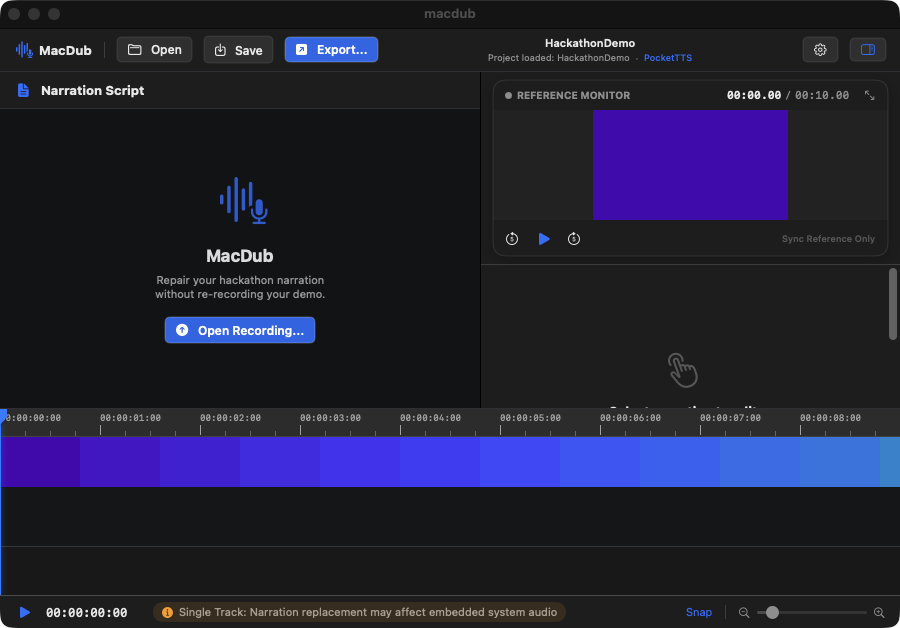
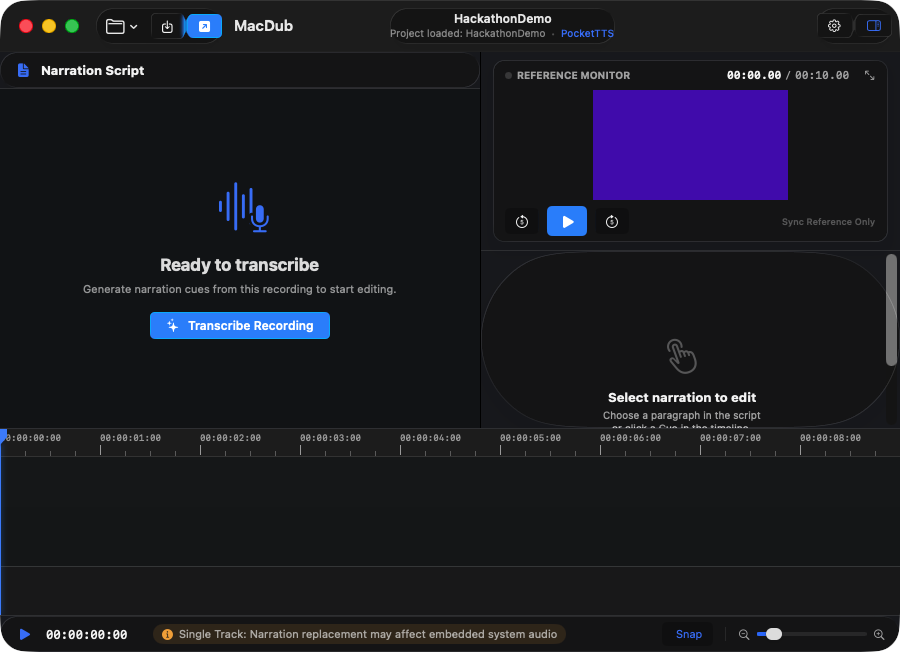
refactor(tests): modernize AVAssetImageGenerator to async image(at:) and update live Reference Monitor screenshot

diff --git a/Tests/MacDubCoreTests/Suites/RealWorldAcceptanceTests.swift b/Tests/MacDubCoreTests/Suites/RealWorldAcceptanceTests.swift
@@ -45,7 +45,7 @@ struct RealWorldAcceptanceTests {
         generator.appliesPreferredTrackTransform = true
         generator.requestedTimeToleranceBefore = .zero
         generator.requestedTimeToleranceAfter = .zero
-        let cgImage = try generator.copyCGImage(at: .zero, actualTime: nil)
+        let (cgImage, _) = try await generator.image(at: .zero)
         #expect(cgImage.width > 0 && cgImage.height > 0, "First video frame must decode valid image pixels")
 
         // 2. Full AppViewModel import and explicit deliberate transcription creates real Cues
@@ -84,7 +84,7 @@ struct RealWorldAcceptanceTests {
         let targetX = appViewModel.timelineViewModel.converter.timeToX(scrubTarget)
         appViewModel.timelineViewModel.updateScrub(to: targetX)
         appViewModel.timelineViewModel.endScrubbing(resumePlayback: false)
-        let frameAt20 = try generator.copyCGImage(at: scrubTarget, actualTime: nil)
+        let (frameAt20, _) = try await generator.image(at: scrubTarget)
         #expect(frameAt20.width > 0 && frameAt20.height > 0, "Scrubbed time must decode valid video frame")
 
         // 6. Clicking a Cue seeks the video & Reference Monitor remains synchronized

diff --git a/scripts/capture_macdub_live.swift b/scripts/capture_macdub_live.swift
@@ -48,7 +48,7 @@ guard let winID = targetWindowID else {
 
 // Activate application to ensure it's frontmost and fully rendered
 if let runningApp = NSRunningApplication(processIdentifier: process.processIdentifier) {
-    runningApp.activate(options: [.activateIgnoringOtherApps, .activateAllWindows])
+    runningApp.activate()
 }
 
 // Give AVPlayer, CALayer, and AppKit 4 seconds to decode and composite the video frame
